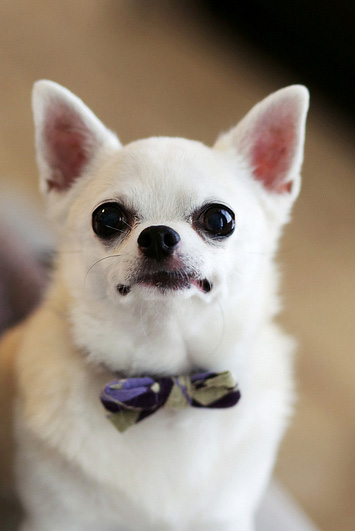
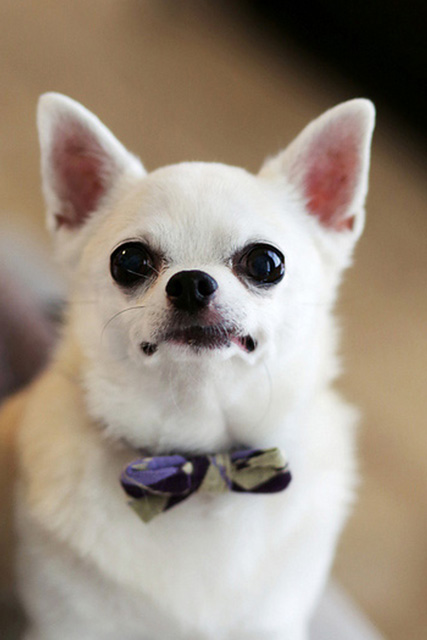
1, modified the size of images in itemGallery.html 2, fixed the problem of broken layout in itemGallery.html

diff --git a/itemGallery.html b/itemGallery.html
@@ -88,7 +88,7 @@ Used style guide template (Style_guide.html) from canvas.sfu.ca
         <!-- item 6 -->
         <div class="grid-col-1of4">
           <a href="detailsOfItem.html" class="itemHover">
-            <img src="img/dog_gallery/product-dog-Trinket.jpg" height= 100% width="100%">
+            <img src="img/dog_gallery/product-dog-Trinket.jpg" width="100%">
           </a>
         </div>
 

diff --git a/css/main.css b/css/main.css
@@ -304,12 +304,14 @@ for adjusting the section in item gallery
 */
 
 .giftShopGallery{
+	display: inline-block;
 	margin-top: 2rem;
 	margin-right: 5rem;
 	margin-left: 5rem;
 	z-index: 100;
 }
 .galleryLine{
+	display: inline-block;
 	padding-bottom: -5rem;
 }
 .itemParagraph{

diff --git a/css/grids.css b/css/grids.css
@@ -97,7 +97,7 @@ body {
 	.grid-col-1of4 {
 		width: 25%;
 		padding-top: 0em;
-		margin-bottom: -2.35rem;
+		margin-bottom: -2.75rem;
 	}
 
 	.grid-col-3of4 {
